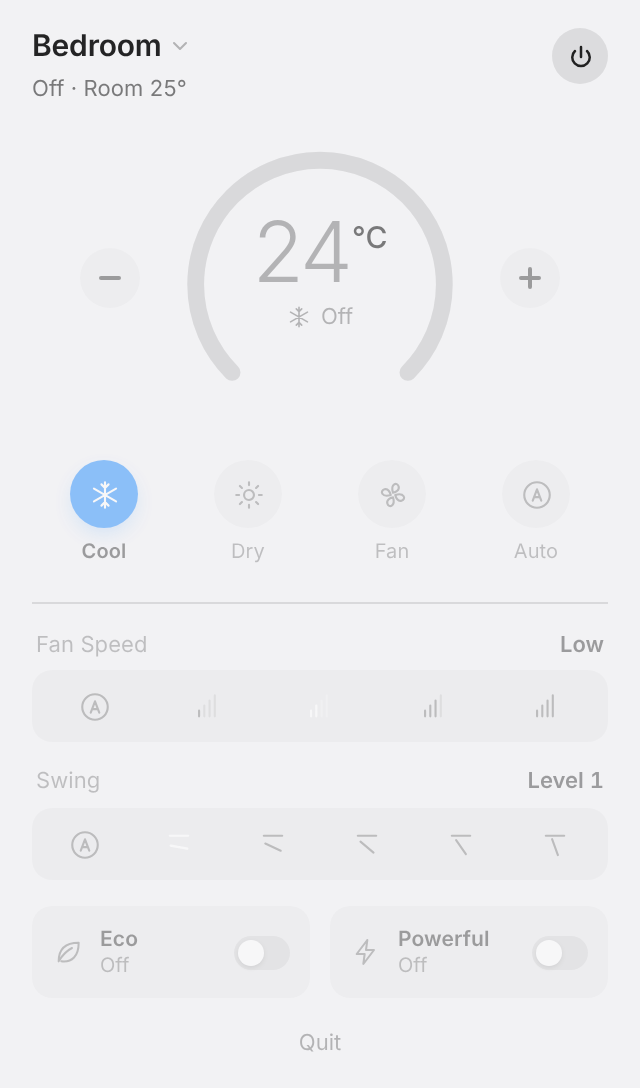
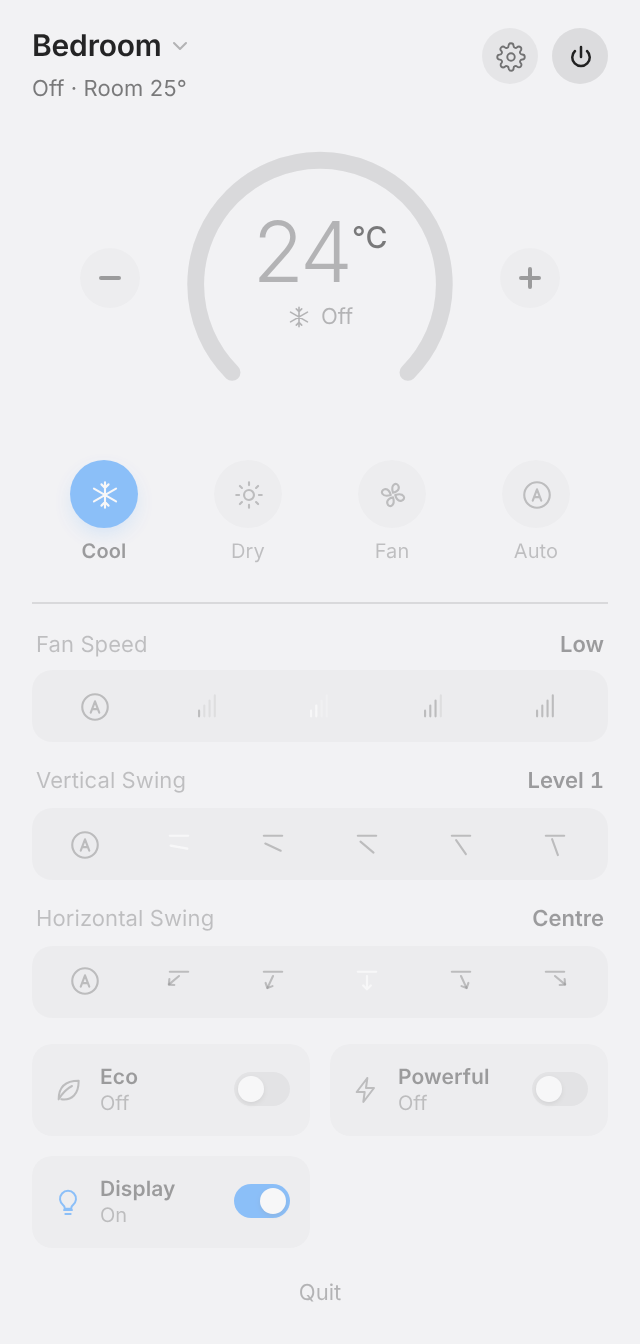
Steer the air left and right, not just up and down
MirAIe units have two louvres and the panel only ever drove one. Swing is
now two rows: Vertical Swing as before, and Horizontal Swing beneath it,
whose options are named for where the air is pointed — Far left through
Far right — because a direction is not a level.

The second row is drawn as arrows rather than bare vanes. The row above
is already lines at angles, and at this size the two would take a moment
to tell apart.

Capability-driven as usual: hswing in CAPS, empty for a unit with one
axis, and that row never appears.

Claude-Session: https://claude.ai/code/session_01TSzzxFf138iEZ5KL74SJBf

diff --git a/ac_panel.py b/ac_panel.py
@@ -864,8 +864,12 @@ svg{fill:none;stroke:currentColor;stroke-width:1.5;stroke-linecap:round;stroke-l
   <div class="hsel" id="sel-fan" role="group" aria-label="Fan speed"></div>
 </div>
 <div class="hgroup" id="g-swing">
-  <div class="hrow"><span>Swing</span><b id="v-swing">--</b></div>
-  <div class="hsel" id="sel-swing" role="group" aria-label="Swing"></div>
+  <div class="hrow"><span>Vertical Swing</span><b id="v-swing">--</b></div>
+  <div class="hsel" id="sel-swing" role="group" aria-label="Vertical swing"></div>
+</div>
+<div class="hgroup" id="g-hswing">
+  <div class="hrow"><span>Horizontal Swing</span><b id="v-hswing">--</b></div>
+  <div class="hsel" id="sel-hswing" role="group" aria-label="Horizontal swing"></div>
 </div>
 <div class="pills" id="pills"></div>
 
@@ -919,7 +923,7 @@ document.documentElement.style.setProperty("--tick",
 
 /* Every option list comes from the selected AC's capabilities, so a brand with
    no swing control simply never gets that selector. */
-let SEGS={mode:[],fan:[],swing:[]}, capsKey="", TMIN=16, TMAX=30, TSPAN=14;
+let SEGS={mode:[],fan:[],swing:[],hswing:[]}, capsKey="", TMIN=16, TMAX=30, TSPAN=14;
 let s=null, sel=null, hold=0, tempTimer=null, dragging=false, lastUi="", choiceTimer={}, menuKey="";
 try{ sel=localStorage.getItem("ac-selected"); }catch(e){}
 
@@ -968,7 +972,7 @@ function setSeg(key,value){
 }
 /* Horizontal icon selectors for fan speed and swing. Options come from the
    AC's capabilities: --n sizes the sliding highlight, --i positions it. */
-const SELECTORS={fan:{opts:[]},swing:{opts:[]}};
+const SELECTORS={fan:{opts:[]},swing:{opts:[]},hswing:{opts:[]}};
 
 /* Fan speed reads as a four-bar meter: bars up to this speed are solid and the
    rest stay faint, so every option shares a silhouette and only the fill moves. */
@@ -992,7 +996,19 @@ function swingIcon(value,index,total){
   const levels=Math.max(2,total-1), angle=10+(index-1)*(60/(levels-1));
   return lip+'<g transform="rotate('+angle.toFixed(1)+' 12 13.500)"><path d="M6 13.500h12"/></g>';
 }
-const SEL_ICON={fan:fanIcon,swing:swingIcon};
+/* Left-to-right airflow is the same louver seen from above: the unit's face
+   stays put and the vane swings beneath it, 50° either side of centre. Positive
+   rotation carries the vane left, so the options read left to right in order. */
+function hswingIcon(value,index,total){
+  const face='<path d="M5.500 5.500h13"/>';
+  if(value===0||value==="auto"||value==="0") return '<path d="'+ICON.auto+'"/>';
+  const levels=Math.max(2,total-1), angle=50-(index-1)*(100/(levels-1));
+  // An arrowhead, not a bare line: the vertical row above is already lines at
+  // angles, and at this size the two would be a moment's work to tell apart.
+  return face+'<g transform="rotate('+angle.toFixed(1)+' 12 8.500)">'+
+    '<path d="M12 8.500v9.200"/><path d="M9.300 15.100 12 17.900l2.700-2.800"/></g>';
+}
+const SEL_ICON={fan:fanIcon,swing:swingIcon,hswing:hswingIcon};
 
 function buildSelector(key,opts){
   const box=$("sel-"+key), st=SELECTORS[key];
@@ -1020,7 +1036,7 @@ function setSelector(key,value){
 /* Rebuild every control from what the selected AC reports it can do. */
 function applyCaps(caps){
   const key=JSON.stringify(caps); if(key===capsKey) return; capsKey=key;
-  SEGS={mode:caps.modes||[],fan:caps.fan||[],swing:caps.swing||[]};
+  SEGS={mode:caps.modes||[],fan:caps.fan||[],swing:caps.swing||[],hswing:caps.hswing||[]};
   TMIN=caps.temp.min; TMAX=caps.temp.max; TSPAN=Math.max(1,TMAX-TMIN);
   $("dial").setAttribute("aria-valuemin",TMIN); $("dial").setAttribute("aria-valuemax",TMAX);
 
@@ -1034,7 +1050,9 @@ function applyCaps(caps){
   modes.hidden=!SEGS.mode.length;
 
   buildSelector("fan",SEGS.fan); buildSelector("swing",SEGS.swing);
+  buildSelector("hswing",SEGS.hswing);
   $("g-fan").hidden=!SEGS.fan.length; $("g-swing").hidden=!SEGS.swing.length;
+  $("g-hswing").hidden=!SEGS.hswing.length;
 
   const pills=$("pills"); pills.innerHTML="";
   const add=(id,label,icon,onclick)=>{
@@ -1057,7 +1075,7 @@ function applyCaps(caps){
   const count=(caps.presets||[]).length+(caps.toggles||[]).length;
   pills.hidden=!count;
   pills.style.gridTemplateColumns=count===1?"1fr":"1fr 1fr";
-  document.querySelector(".rule").hidden=!SEGS.fan.length&&!SEGS.swing.length&&!count;
+  document.querySelector(".rule").hidden=!SEGS.fan.length&&!SEGS.swing.length&&!SEGS.hswing.length&&!count;
 }
 function applyChoice(key,val){
   const d=cur(); if(!d||d[key]===val) return;
@@ -1104,6 +1122,7 @@ function render(){
   setSeg("mode",d.mode);
   if(SEGS.fan.length) setSelector("fan",d.fan);
   if(SEGS.swing.length) setSelector("swing",d.swing);
+  if(SEGS.hswing.length) setSelector("hswing",d.hswing);
   (d.caps.presets||[]).forEach(([value])=>{
     const b=$("p-"+value); if(!b) return;
     const on=d.preset===value;

diff --git a/acbrands/base.py b/acbrands/base.py
@@ -43,11 +43,15 @@ class Capabilities:
     the order shown, so list fan speeds from gentlest to strongest.
     """
 
-    def __init__(self, modes=(), fan=(), swing=(), presets=(), toggles=(),
+    def __init__(self, modes=(), fan=(), swing=(), hswing=(), presets=(), toggles=(),
                  temp=None, room_temp=True, energy=False):
         self.modes = [tuple(x) for x in modes]
         self.fan = [tuple(x) for x in fan]
         self.swing = [tuple(x) for x in swing]
+        # Left-to-right airflow, which most units control separately from the
+        # up-and-down louvre. A brand with only one swing axis leaves this
+        # empty and that second row never appears.
+        self.hswing = [tuple(x) for x in hswing]
         self.presets = [tuple(x) for x in presets]
         self.toggles = [tuple(x) for x in toggles]
         self.temp = dict(temp or DEFAULT_TEMP)
@@ -61,8 +65,8 @@ class Capabilities:
         """True when this unit accepts `action` (and `value`, when given)."""
         if action in ("power", "temp"):
             return True
-        group = {"mode": self.modes, "fan": self.fan,
-                 "swing": self.swing, "preset": self.presets}.get(action)
+        group = {"mode": self.modes, "fan": self.fan, "swing": self.swing,
+                 "hswing": self.hswing, "preset": self.presets}.get(action)
         if group is None:
             group = self.toggles
             if action not in [v for v, _ in self.toggles]:
@@ -80,6 +84,7 @@ class Capabilities:
         return {"modes": [list(x) for x in self.modes],
                 "fan": [list(x) for x in self.fan],
                 "swing": [list(x) for x in self.swing],
+                "hswing": [list(x) for x in self.hswing],
                 "presets": [list(x) for x in self.presets],
                 "toggles": [list(x) for x in self.toggles],
                 "temp": self.temp, "room_temp": self.room_temp,
@@ -98,7 +103,7 @@ class Device:
         """Current state as plain JSON-safe values.
 
         Returns keys: online, power, temp, room_temp, mode, fan, swing,
-        preset, toggles. Anything the unit does not have may be None (or an
+        hswing, preset, toggles. Anything the unit does not have may be None (or an
         empty dict for toggles).
         """
         raise NotImplementedError

diff --git a/acbrands/miraie.py b/acbrands/miraie.py
@@ -24,10 +24,15 @@ FAN = [("auto", "Auto"), ("quiet", "Quiet"), ("low", "Low"),
        ("medium", "Medium"), ("high", "High")]
 SWING = [(0, "Auto"), (1, "Level 1"), (2, "Level 2"),
          (3, "Level 3"), (4, "Level 4"), (5, "Level 5")]
+# Left-to-right airflow. The same five positions as the vertical louvre, named
+# for where the air is pointed rather than numbered, because "Level 3" says
+# nothing about a direction.
+HSWING = [(0, "Auto"), (1, "Far left"), (2, "Left"), (3, "Centre"),
+          (4, "Right"), (5, "Far right")]
 PRESETS = [("eco", "Eco"), ("boost", "Powerful")]
 TOGGLES = []
 
-CAPS = Capabilities(modes=MODES, fan=FAN, swing=SWING, presets=PRESETS,
+CAPS = Capabilities(modes=MODES, fan=FAN, swing=SWING, hswing=HSWING, presets=PRESETS,
                     toggles=TOGGLES, temp={"min": 16, "max": 30, "step": 1},
                     room_temp=True, energy=True)
 
@@ -62,6 +67,7 @@ class MirAIeDevice(Device):
             "mode": st.hvac_mode.value,
             "fan": st.fan_mode.value,
             "swing": st.v_swing_mode.value,
+            "hswing": st.h_swing_mode.value,
             "preset": st.preset_mode.value,
             "toggles": {"display": st.display_mode == DisplayMode.ON},
         }
@@ -117,6 +123,8 @@ class MirAIeDriver(ACDriver):
             await raw.set_preset_mode(PresetMode(value))
         elif action == "swing":
             await raw.set_v_swing_mode(SwingMode(int(value)))
+        elif action == "hswing":
+            await raw.set_h_swing_mode(SwingMode(int(value)))
         elif action == "display":
             await raw.set_display_mode(DisplayMode.ON if value else DisplayMode.OFF)
         else:

diff --git a/acbrands/demo.py b/acbrands/demo.py
@@ -18,6 +18,8 @@ FULL = Capabilities(
          ("medium", "Medium"), ("high", "High")],
     swing=[(0, "Auto"), (1, "Level 1"), (2, "Level 2"),
            (3, "Level 3"), (4, "Level 4"), (5, "Level 5")],
+    hswing=[(0, "Auto"), (1, "Far left"), (2, "Left"), (3, "Centre"),
+            (4, "Right"), (5, "Far right")],
     presets=[("eco", "Eco"), ("boost", "Powerful")],
     toggles=[("display", "Display")],
     energy=True,
@@ -26,7 +28,7 @@ FULL = Capabilities(
 # A deliberately plain unit: the panel should hide both knobs and the presets.
 MINIMAL = Capabilities(
     modes=[("cool", "Cool"), ("fan", "Fan")],
-    fan=[], swing=[], presets=[], toggles=[],
+    fan=[], swing=[], hswing=[], presets=[], toggles=[],
     temp={"min": 18, "max": 28, "step": 1}, room_temp=False,
 )
 
@@ -42,6 +44,7 @@ class DemoDevice(Device):
             "mode": caps.modes[0][0] if caps.modes else "cool",
             "fan": caps.fan[2][0] if len(caps.fan) > 2 else None,
             "swing": caps.swing[1][0] if len(caps.swing) > 1 else None,
+            "hswing": caps.hswing[3][0] if len(caps.hswing) > 3 else None,
             "preset": "none",
             "toggles": {name: True for name, _ in caps.toggles},
         }
@@ -68,7 +71,7 @@ class DemoDriver(ACDriver):
             st["power"] = bool(value)
         elif action == "temp":
             st["temp"] = float(device.caps.clamp(value))
-        elif action in ("mode", "fan", "swing"):
+        elif action in ("mode", "fan", "swing", "hswing"):
             st[action] = value
         elif action == "preset":
             st["preset"] = value

diff --git a/acbrands/template.py b/acbrands/template.py
@@ -27,7 +27,8 @@ from .base import ACDriver, AuthError, Capabilities, Device, Field
 CAPS = Capabilities(
     modes=[("cool", "Cool"), ("heat", "Heat"), ("fan", "Fan")],
     fan=[("low", "Low"), ("high", "High")],
-    swing=[],                      # empty: this unit has no swing control
+    swing=[],                      # up and down; empty: no swing control
+    hswing=[],                     # left to right, if the unit steers that too
     presets=[],                    # empty: no eco/powerful modes
     toggles=[],                    # e.g. [("display", "Display")]
     temp={"min": 16, "max": 30, "step": 1},
@@ -66,7 +67,7 @@ class TemplateDriver(ACDriver):
         raise NotImplementedError("Sign in and return devices here")
 
     async def command(self, device, action, value):
-        """Apply one change: power, temp, mode, fan, swing, preset, or a toggle
+        """Apply one change: power, temp, mode, fan, swing, hswing, preset, or a toggle
         name from CAPS. Values arrive exactly as declared in CAPS."""
         raise NotImplementedError("Send the command to the unit here")
 

diff --git a/README.md b/README.md
@@ -3,7 +3,8 @@
 A macOS menubar panel for controlling smart air conditioners.
 
 Click the menubar item and a compact panel drops down with everything on one
-screen: a temperature dial, the running mode, fan speed, swing and presets. It
+screen: a temperature dial, the running mode, fan speed, both swing axes and
+presets. It
 follows the system light or dark setting and is built to feel like a part of
 macOS rather than a web page in a window.
 
@@ -50,7 +51,8 @@ there is no bundler and no front-end framework.
 
 **The panel**
 - A 320pt popover that sizes itself to its contents: a 270° temperature dial,
-  mode buttons, fan speed and swing selectors, and preset toggles.
+  mode buttons, fan speed, vertical and horizontal swing selectors, and preset
+  toggles.
 - Switched off, the dial goes quiet and the controls dim in place rather than
   disappearing, so the panel never jumps around.
 - Multiple units are supported, switched from the name dropdown in the header.
@@ -92,6 +94,9 @@ there is no bundler and no front-end framework.
 **Controls**
 - Temperature dial with drag, `−`/`+` buttons and arrow keys.
 - Mode buttons, segmented fan-speed and swing selectors, and preset toggles.
+- Swing is two rows, up-and-down and left-to-right, each drawn only if the
+  unit steers that axis. The horizontal options are named for where the air
+  is pointed rather than numbered.
 - Only the controls the selected unit reports are drawn; the window resizes to
   fit what is left.
 
@@ -183,6 +188,7 @@ then `.env`, then the Keychain.
 | Set temperature | Drag the dial, use `−` / `+`, or arrow keys |
 | Change mode | Click a mode button |
 | Fan speed / swing | Click an option in the selector |
+| Airflow direction | Horizontal Swing, left to right |
 | Switch unit | The name dropdown in the header |
 | Settings | The gear icon, left of the power button |
 | Automation | Settings → **Automatic control** |
@@ -213,7 +219,8 @@ controls, so a unit without swing simply never gets that selector — no
 interface code changes.
 
 1. Copy `acbrands/template.py` to `acbrands/yourbrand.py`.
-2. Fill in `CAPS` (modes, fan speeds, swing levels, presets, temperature range)
+2. Fill in `CAPS` (modes, fan speeds, both swing axes, presets, temperature
+   range)
    and implement `connect()`, `command()` and `Device.snapshot()`.
 3. Add one line to the `BRANDS` table in `acbrands/__init__.py`.
 
